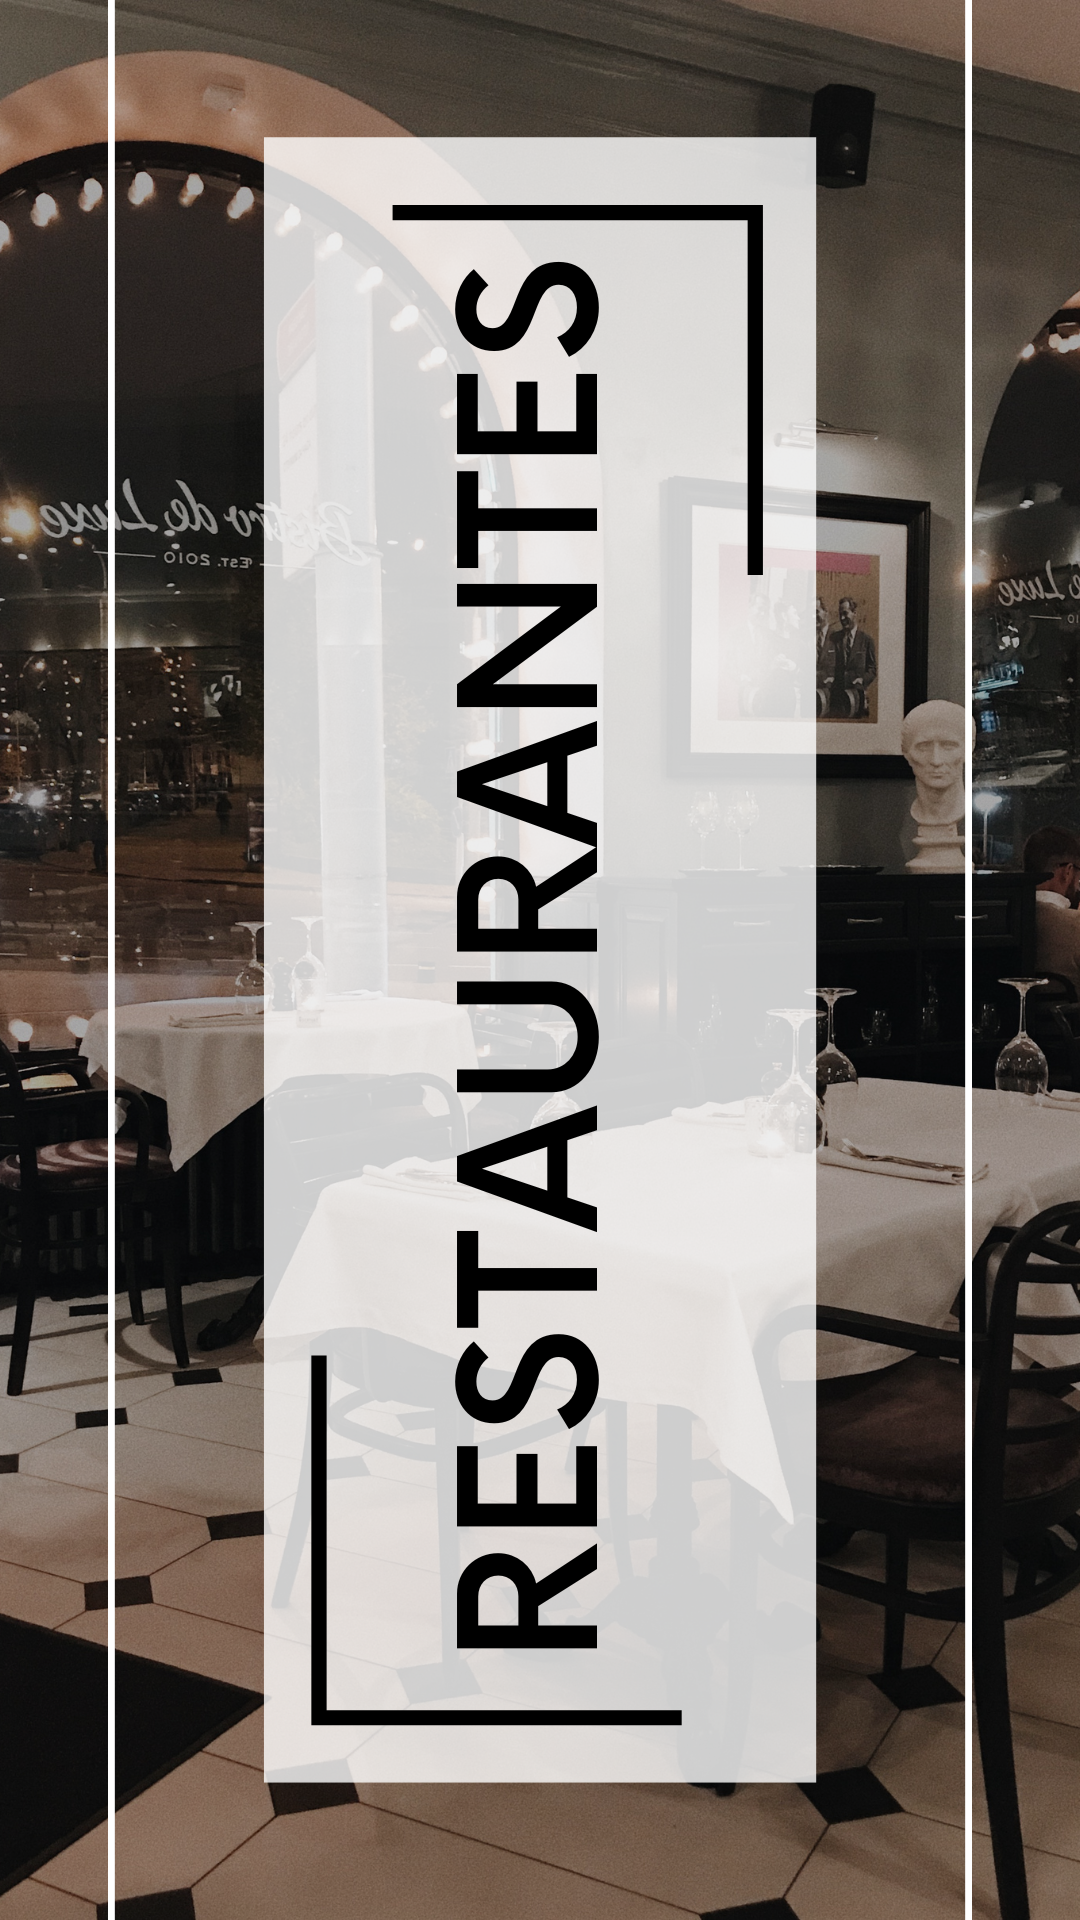
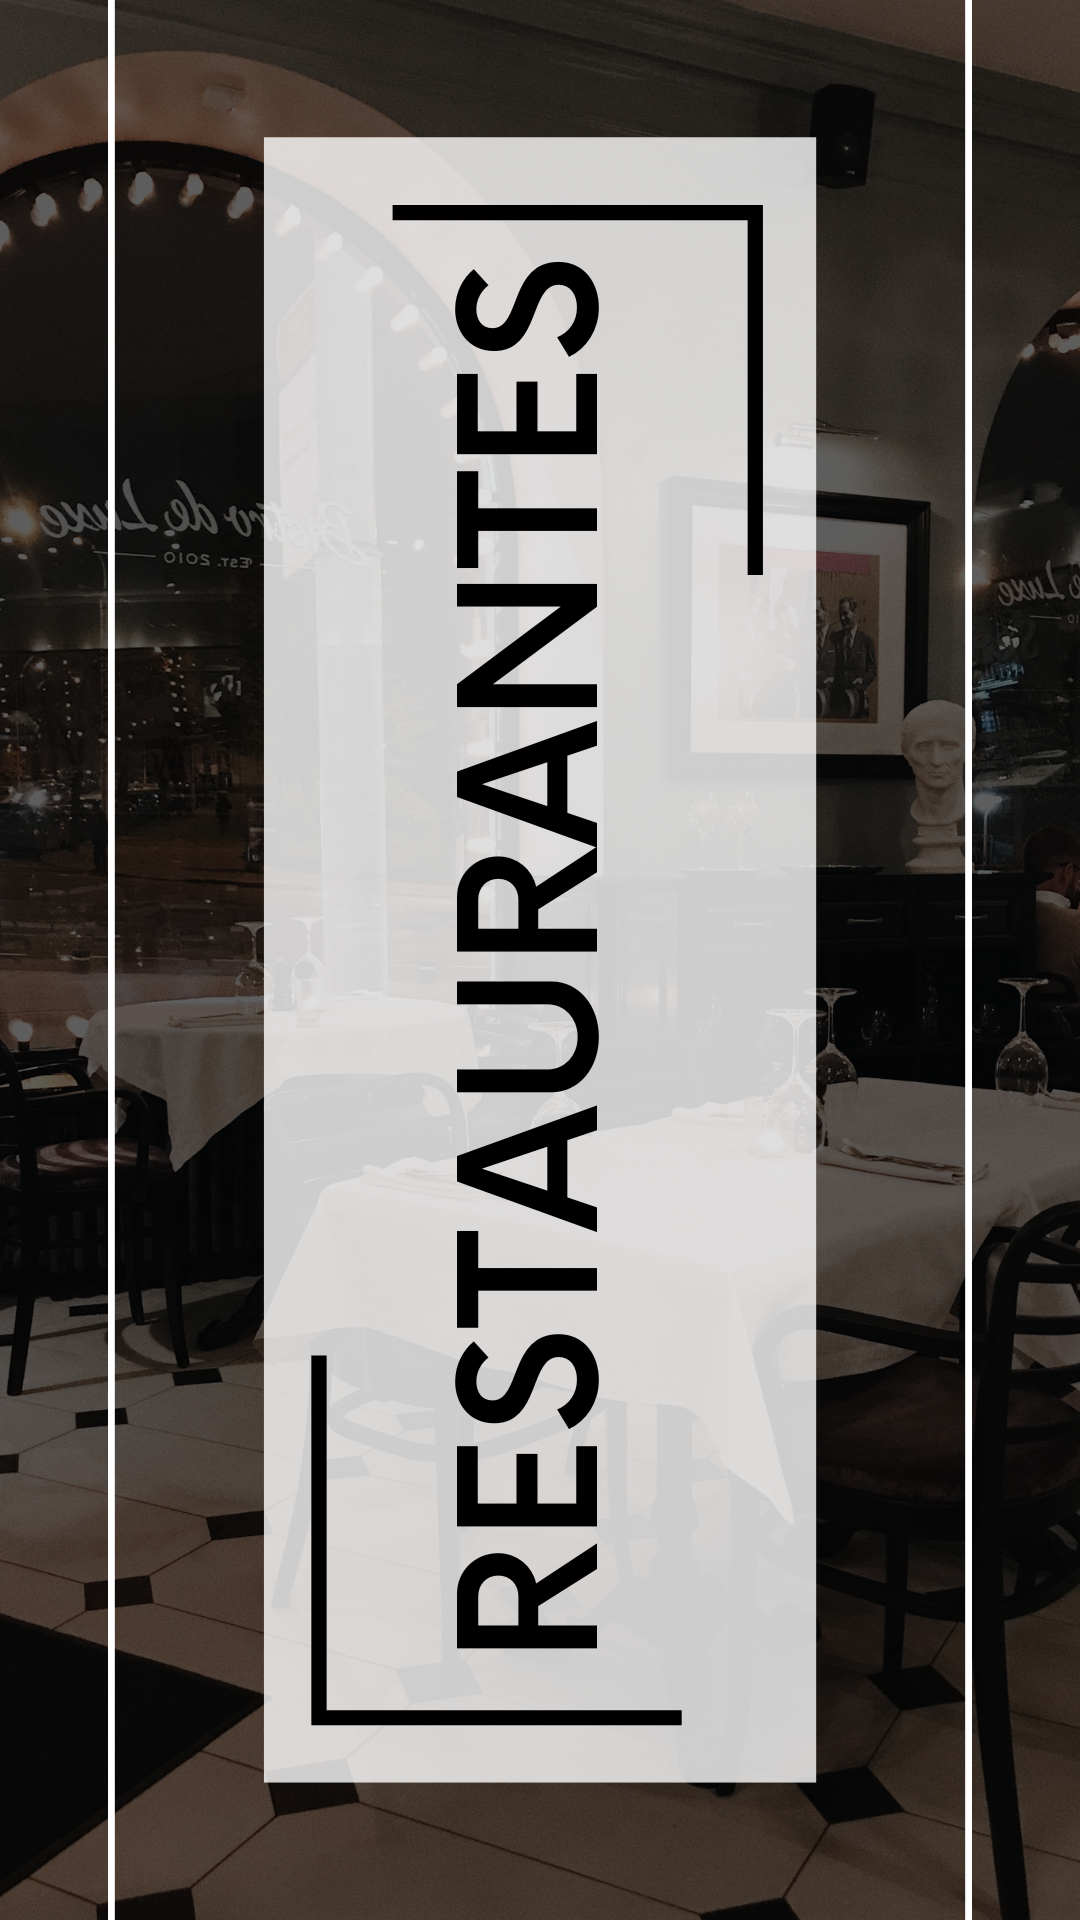
Se termina de darle estilo al menu principal

diff --git a/FranciscoRuvalcaba/Evidencia2/index.css b/FranciscoRuvalcaba/Evidencia2/index.css
@@ -1,24 +1,22 @@
 body {
-    background-image: url(Fondo.jpg);
+    background-image: url(Fondo.png);
     background-repeat: no-repeat;
     background-attachment: fixed;
     background-size: 100% 100%;
-    color: #FFFFFF;
-    
+    color: #FFFFFF;    
 }
 
-/*Edicion de cuadro para header*/
 header{
 	width: 100%;
-	height:1px;
+	
 }
 
 .navegacion{
 	width: 100%;
-	background-color:#A8DADC ;
-	position:relative;
-	z-index:100;
-	
+	margin: 30px auto;
+	border-radius: 4px;
+
+	background: linear-gradient(to right, #990D35, #275DAD);  
 }
 
 .navegacion ul{
@@ -35,31 +33,54 @@ header{
 .menu > li > a{
 	display: block;
 	padding: 15px 20px;
-	color:#1D3557;
-	font-family: 'Arial';
+	color: #FCF7F8;
+	font-family: 'Open sans';
 	text-decoration: none;
-    font-weight:bolder;
 }
-
-
-
 
 /*Animacion de letra para el menu */
 .menu li a:hover{
-    background-color:#E63946 ;
+	color: #ABA9C3;
 	transition: all .3s;
 }
 
+/* Submenu*/
+
+.submenu{
+	position: absolute;
+	background: #333333;
+	width: 120%;
+	visibility: hidden;
+	opacity: 0;
+	transition: opacity 1.5s;
+}
+
+.submenu li a{
+	display: block;
+	padding: 15px;
+	color: #fff;
+	font-family: 'Open sans';
+	text-decoration: none;
+}
+
+/* Animacion para transicion de menu */
+.menu li:hover .submenu{
+	visibility: visible;
+	opacity: 1;
+}
 
 .portada{
-	width:100%;
-	height:50%;
 	overflow:hidden;
 	display:flex;
-	justify-content:center;
 	align-items:center;
-	height:100vh;
-	opacity: 93%;
+	opacity: 94%;
+}
+
+.img-portada img{
+	width:100%;
+	height:100%;
+	object-fit:cover;
+	border-radius: 4px;
 }
 
 /* Estilo para galeria de fotos */
@@ -67,35 +88,34 @@ header{
 .galeria{
 	width:100%;
 	height:100%;
-	overflow:hidden;
 	display:flex;
 	justify-content:center;
 	align-items:center;
-	height:100vh;
 }
 
 /* Estilo para el selector de fotos */
 
 
-.selector {
+.selector{
 	width:35%;
+	opacity:100%;
+
 }
 
 .selector img{
 	width:100%;
 	height:100%;
+	border-radius: 4px;
+	object-fit:cover;
+
 }
 
 .selector:hover{
 	width:35.5%;
 	transition:all 0.2s;
-	opacity:50%;
-}
+	opacity:70%;
+	border:5px solid rgba(255, 255, 0, 0.432);
 
-
-.selector img{
-	object-fit:cover;
-	
 }
 
 @media (max-height:575px){

diff --git a/FranciscoRuvalcaba/Evidencia2/Evidencia2_index.html b/FranciscoRuvalcaba/Evidencia2/Evidencia2_index.html
@@ -8,23 +8,33 @@
     <link rel="stylesheet" href="index.css">
 </head>
 <body>
-    <header>
+
+    <footer>
         <nav class="navegacion">
             <ul class="menu">
+                <li><a href="https://fdw52ad2022.github.io/website52/index.html">ENLACES</a></li>
                 <li><a href="/FranciscoRuvalcaba/FranciscoRuvalcaba_index.html">PAGINA PRINCIAPL</a></li>
-                <li><a href="https://github.com/FranciscoRuvalcaba">GITGUB</a></li>
+                <li><a href="#">PASATIEMPOS</a>
+                    <ul class="submenu">
+                        <li><a href="pasatiempos/pasatiemposV1.html">PASATIEMPOSV1</a></li>
+                        <li><a href="pasatiempos/pasatiemposV2.html">PASATIEMPOSV2</a></li>
+                    </ul>
+                </li>
+                <li><a href="Evidencia2/Evidencia2_index.html">EVIDENCIA 2</a></li>
+                <li><a href="https://github.com/FranciscoRuvalcaba">GITHUB</a></li>
             </ul>
         </nav>
+    </HEADER>
+
     </header>
     <div class="portada">
         <div class="img-portada"><img src="PORTADA.png"></div>
     </div>
-
 	<div class="galeria">
-        <div class="selector"><img src="VIAJES.png" /></div>
-        <div class="selector"><img src="HOTELES.png" /></div>
-        <div class="selector"><img src="RUTAS.png" /></div>
-        <div class="selector"><img src="RESTAURANTES.png" /></div>
+        <div class="selector"><a href="*"><img src="VIAJES.png" /></a></div>
+        <div class="selector"><a href="*"><img src="HOTELES.png" /></a></div>
+        <div class="selector"><a href="*"><img src="RUTAS.png" /></a></div>
+        <div class="selector"><a href="*"><img src="RESTAURANTES.png" /></a></div>
     </div>
 </body>
 </html>
